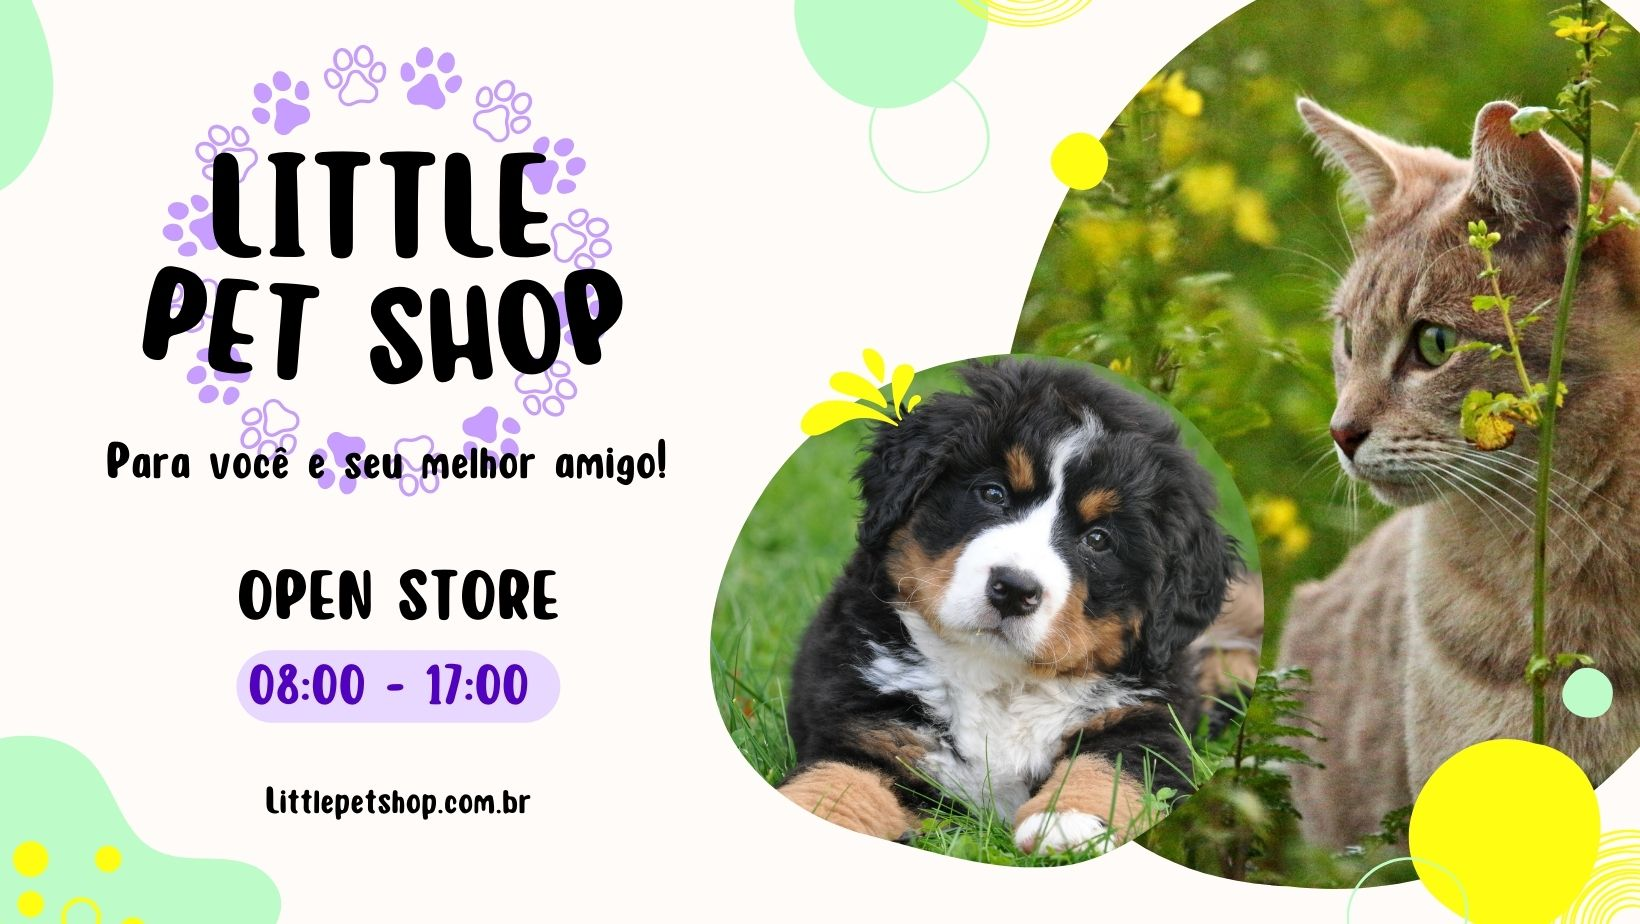
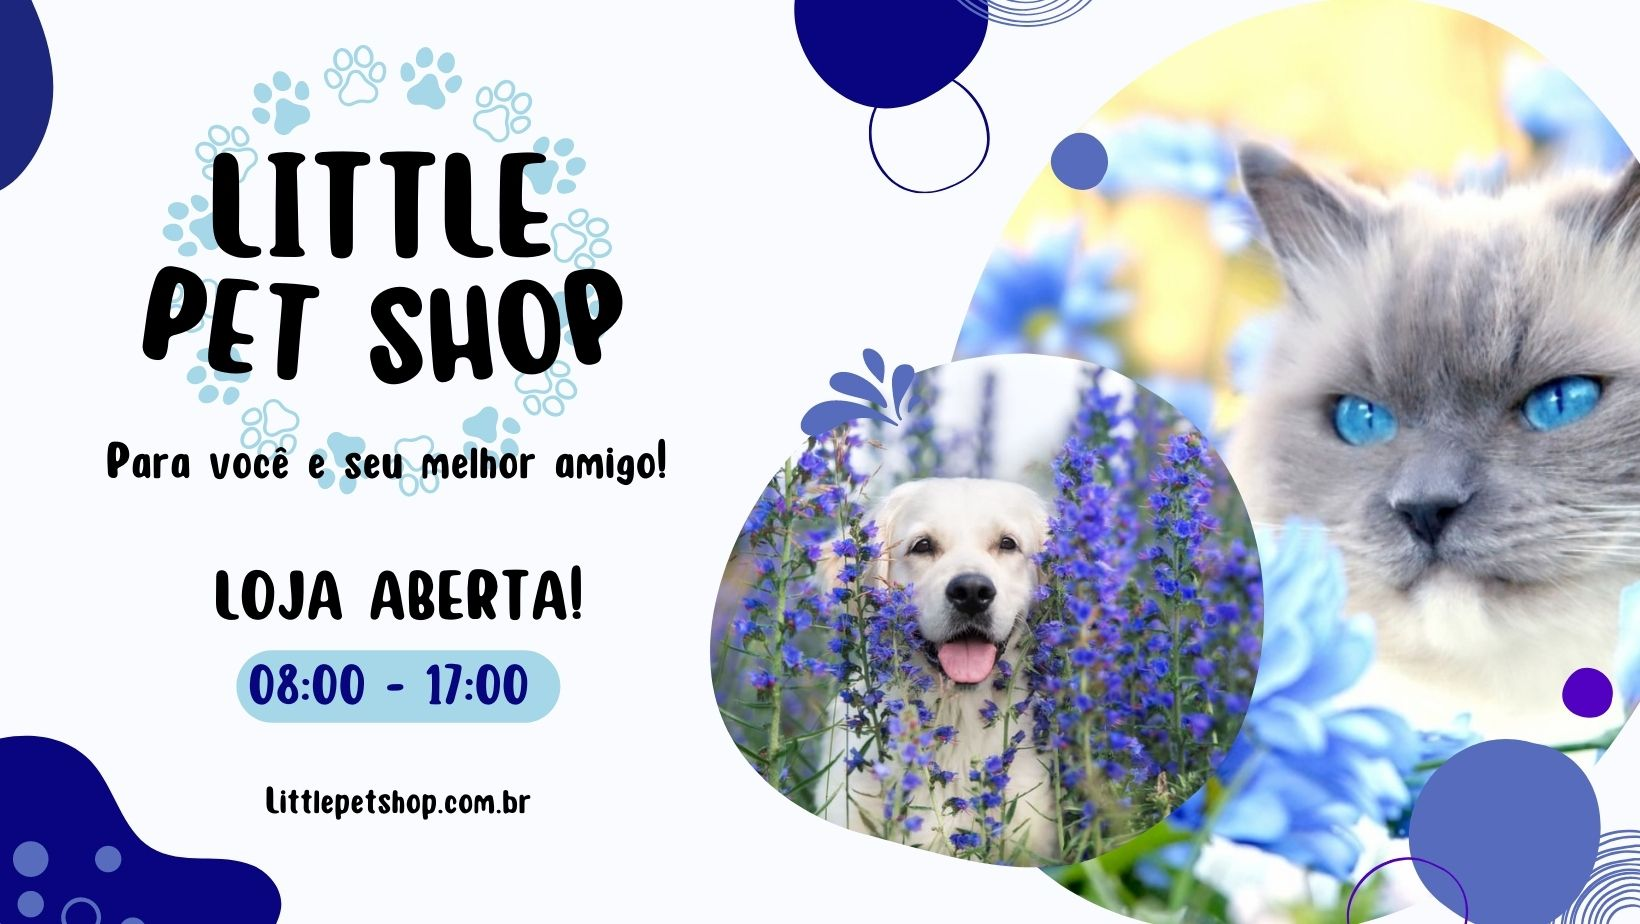
dia 16 arrumar imagens e,troca de cores.

diff --git a/CSS/style.css b/CSS/style.css
@@ -1,6 +1,6 @@
 body {
   margin: 0;
-  background-color: #FFFBF8;
+  background-color: #F9FBFF;
 }
 
 /* Barra de pesquisa do site */
@@ -17,13 +17,15 @@ body {
 }
 
 .barraPesquisa {
-  height: 20px;
-  width: 326px;
+  height: 30px;
+  width: 35em;
   border-radius: 20px;
   padding-left: 1em;
   border: none;
   color: #9165ef;
   text-align: center;
+  margin: 0px;
+  
 }
 
 .barraPesquisa::placeholder {
@@ -96,7 +98,7 @@ header {
   left: 0;
   right: 0;
   height: 80px;
-  background: #533E85;
+  background: #090580;
   font-family: "Open Sans", sans-serif;
   display: flex;
   align-items: center;
@@ -106,11 +108,19 @@ header {
 /* Rodapé do site */
 
 .social {
-  background-color: #74f1ae;
+  background-color: #87CBB9;
   display: flex;
   justify-content: center;
   gap: 2em;
   align-items: center;
+}
+
+.dev {
+  color: #F9FBFF;
+}
+
+.social {
+  color: #F9FBFF;
 }
 
 .retorno {
@@ -118,7 +128,7 @@ header {
 }
 
 .dev {
-  background-color: #9165ef;
+  background-color: #090580;
   padding: 1em;
 }
 
@@ -129,7 +139,7 @@ header {
 }
 
 .itemRodape i {
-  color: #9165ef;
+  color: aqua;
 }
 
 .dev p {
@@ -148,8 +158,14 @@ header {
    /* DIVISÃO DO SOBRE NÓS , PRA CIMA RESTO PRA BAIXO TITULO */
   
    .titulonos {
-    color: #9165ef;
-   }
+    color: #F0FFF0;
+    font-family: Georgia, 'Times New Roman', Times, serif;
+    background-color: #488FB1;
+    border: 2px solid #F0FFF0;
+    border-radius: 8px;
+    padding: 5px; /* Ajuste o valor de padding conforme necessário */
+  }
+  
 
 
 main.sobrenos {

diff --git a/index.html b/index.html
@@ -23,7 +23,7 @@
   <div class="container">
     <nav class="mainnav">
       <ul class="masthead">
-        <li><a href="#" class="logo">Little Petshop</a></li>
+        <li style="padding-left: 0px;"><a href="#" class="logo" >Little Petshop</a></li>
         <li><a href="#" class="menu-item">Ajuda</a></li>
         <li><a href="#sobre" class="menu-item">Adoção</a></li>
         <li><a href="loja.html" class="menu-item">Loja</a></li>
@@ -42,11 +42,11 @@
 
 <main class="sobrenos">
 
-    <div class="sobreNos1">  
+    <div class="sobreNos1" style="display: grid">  
       
-      <div class="banner">
+      <div class="banner" style="width: 800px;">
 
-        <p style="text-align: center;"><img src="./img/banner.jpg" width="70%"></p>
+      <img src="./img/banner.jpg" style="width: 800px; ">
 
   
        </div>
@@ -111,9 +111,23 @@
   </main>
 <br> 
 <br>
-<br>
-<br>
-<br>
+
+<div> 
+  <img src="./img/mapinha.png" style="width: 100%;">
+
+
+</div>
+
+
+
+
+
+
+
+
+
+
+
  <div>
   <p style="text-align: center;"><img src="#" width="60%"> </p>
  </div>
